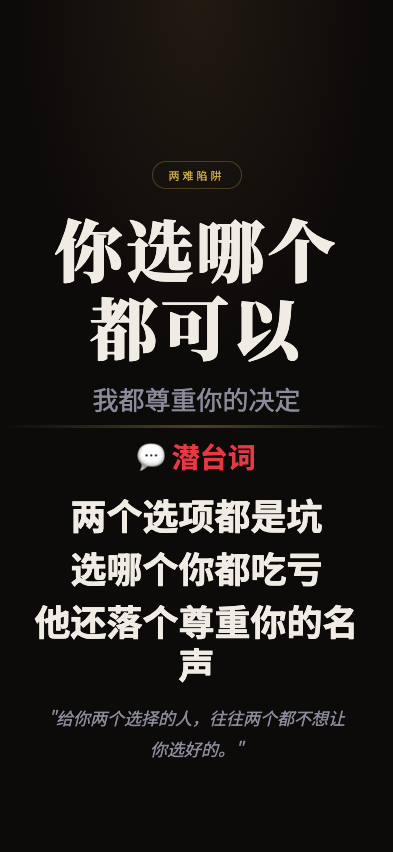
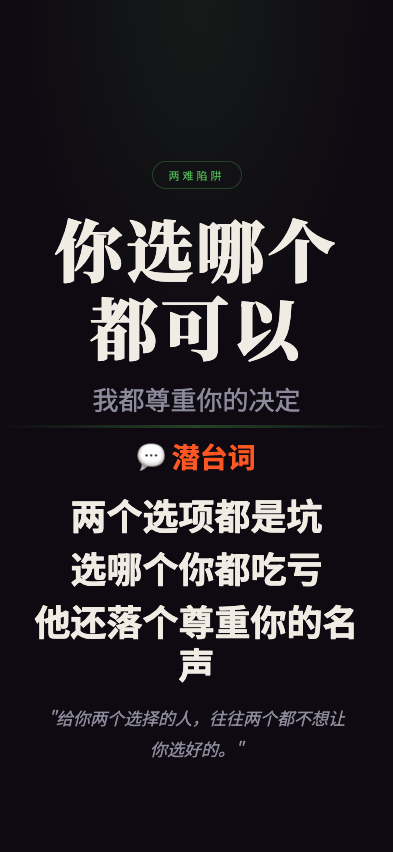
feat: 职场生存法则 screenshot - nixuannagedoukeyi

Changed region(s): [[0.3053, 0.4883, 0.7023, 0.5493], [0.4275, 0.1831, 0.5802, 0.2136]]

diff --git a/wuliao-tools/tools/biz-speak/scenes/nixuannagedoukeyi.html b/wuliao-tools/tools/biz-speak/scenes/nixuannagedoukeyi.html
@@ -7,11 +7,11 @@
 <link href="https://fonts.googleapis.com/css2?family=Noto+Serif+SC:wght@400;700;900&family=Noto+Sans+SC:wght@300;400;700&display=swap" rel="stylesheet">
 <style>
   :root {
-    --bg: #0d0a0a;
+    --bg: #0f0a12;
     --text: #f0ece4;
     --text-dim: #8a8a9a;
-    --gold: #c9a84c;
-    --red: #e63946;
+    --gold: #4caf50;
+    --red: #ff5722;
   }
   * { margin:0; padding:0; box-sizing:border-box; }
   html, body { width:100%; height:100%; overflow:hidden; }
@@ -24,11 +24,11 @@
   }
   body::before {
     content:''; position:absolute; top:0; left:0; right:0; height:45%;
-    background:radial-gradient(ellipse at 50% 0%, rgba(201,168,76,0.1) 0%, transparent 65%);
+    background:radial-gradient(ellipse at 50% 0%, rgba(76,175,80,0.1) 0%, transparent 65%);
     pointer-events:none; z-index:0;
   }
   .top { flex:1; display:flex; flex-direction:column; align-items:center; justify-content:flex-end; padding:4px 28px 8px; position:relative; z-index:1; }
-  .tag { font-size:11px; letter-spacing:3px; color:var(--gold); border:1px solid rgba(201,168,76,0.3); padding:5px 16px; border-radius:50px; margin-bottom:20px; }
+  .tag { font-size:11px; letter-spacing:3px; color:var(--gold); border:1px solid rgba(76,175,80,0.3); padding:5px 16px; border-radius:50px; margin-bottom:20px; }
   .main-title { font-family:'Noto Serif SC'; font-size:68px; font-weight:900; text-align:center; line-height:1.15; letter-spacing:3px; min-width:0; overflow-wrap:break-word; max-width:92%; }
   .sub-title { font-size:26px; color:var(--text-dim); text-align:center; margin-top:14px; }
   .divider { width:100%; height:3px; background:linear-gradient(90deg,transparent,var(--gold),transparent); opacity:0.35; flex-shrink:0; position:relative; z-index:1; }
